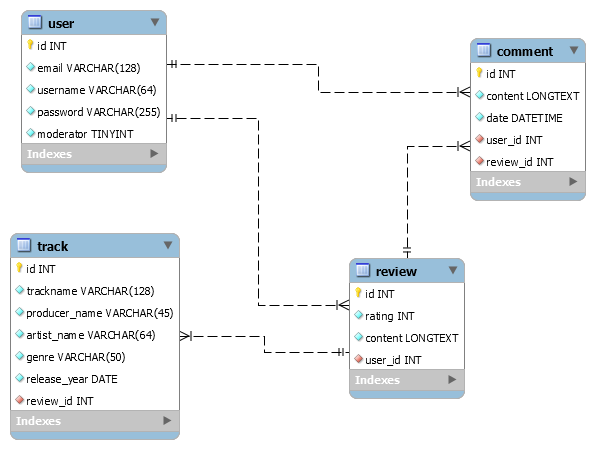
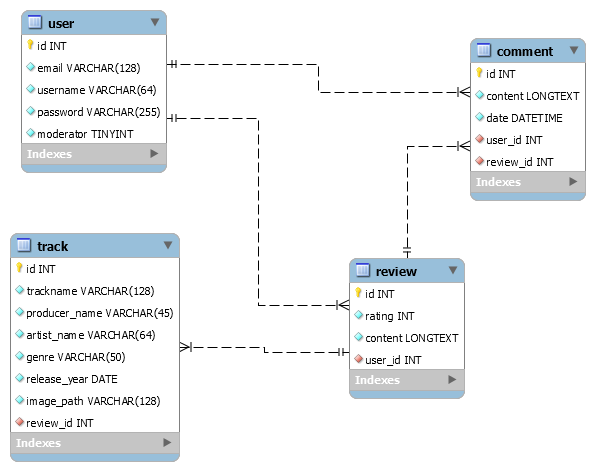
added image_paths to track table, comments now display names

diff --git a/templates/review/index.php b/templates/review/index.php
@@ -33,21 +33,12 @@
                             <?php } ?>
                         </div>
                         <hr>
-                        <img src="images/boston_albumcover.png"
+                        <img src="<?= $track->image_path; ?>"
                              alt="..." width="250px" height="250px">
                         <p class="card-text"><?= $review->content; ?></p>
 
 
                         <p class"Rating"> Lazzaro Rating: <?= $review->rating; ?>/10</p>
-
-                        <button class="btn btn-outline-secondary" type="button">Button</button>
-                        <button class="btn btn-outline-secondary" type="button">Button</button>
-                        <button class="btn btn-outline-secondary" type="button">Button</button>
-                        <button class="btn btn-outline-secondary" type="button">Button</button>
-
-                        <a id="sharebutton" class="btn" href="" role="button">Share</a>
-
-                        <p class="tags">Tags: Rock</p>
 
                     </div>
                 </div>
@@ -55,8 +46,8 @@
                 <div class="col-md-3">
                     <div class="col-md-3">
                         <form action="/default/search" method="post">
-                                <input class="form-control" list="datalistOptions" name="search"
-                                       placeholder="Type to search...">
+                            <input class="form-control" list="datalistOptions" name="search"
+                                   placeholder="Type to search...">
                         </form>
                     </div>
 
@@ -66,7 +57,8 @@
                             EDM
                         </a>
                         <a href="default/genreFilter" class="list-group-item list-group-item-action" name="genreFilter">Pop</a>
-                        <a href="default/genreFilter" class="list-group-item list-group-item-action" name="genreFilter">Hip Hop</a>
+                        <a href="default/genreFilter" class="list-group-item list-group-item-action" name="genreFilter">Hip
+                            Hop</a>
                         <a href="default/genreFilter" class="list-group-item list-group-item-action" name="genreFilter">Rock</a>
 
                         <h5>Jahr</h5>
@@ -80,15 +72,15 @@
 
                 </div>
             </div>
-            <h2>Kommentare (<?= $i=count($review->comments) ?>)</h2>
+            <h2>Kommentare (<?= $i = count($comments['comment']) ?>)</h2>
 
-            <?php foreach ($review->comments as $comment): ?>
+            <?php foreach ($comments['comment'] as $comment): ?>
                 <div class="row">
                     <div class="col-md-8">
-                        <h5><?= $comment->user_id; ?></h5>
-                        <p class="card-text"><small class="text-muted"><?= $comment->date; ?></small>
+                        <h5><?= $comments['user'][$comment['user_id']]['username']; ?></h5>
+                        <p class="card-text"><small class="text-muted"><?= $comment['date']; ?></small>
                         </p>
-                        <p><?= $comment->content; ?></p>
+                        <p><?= $comment['content']; ?></p>
                     </div>
                 </div>
             <?php endforeach; ?>
@@ -100,7 +92,9 @@
                                   id="floatingTextarea" name="comment_content"></textarea>
                         </div>
                         <input type="hidden" id="review_id" name="review_id" value="<?= $review->id; ?>">
-                        <input type="hidden" id="user_id" name="user_id" value="<?= $_SESSION["user"]->id; ?>">
+                        <?php if (isset($_SESSION["user"])) { ?>
+                            <input type="hidden" id="user_id" name="user_id" value="<?= $_SESSION["user"]->id; ?>">
+                        <?php } ?>
                         <button name="doComment" id="commment" type="submit" class="btn">Kommentieren</button>
                     </form>
                 </div>

diff --git a/src/Repository/CommentRepository.php b/src/Repository/CommentRepository.php
@@ -27,10 +27,47 @@ class CommentRepository extends Repository
     }
 
 
-    public function readAllByReviewId($id)
+    public function readAllByReviewId($max = 100, $id)
     {
-        return $this->readAll(100, "review_id=$id");
+        $query = "SELECT comment.*,  user.id as userId , user.username FROM {$this ->tableName} JOIN user ON comment.user_id=user.id WHERE review_id = $id LIMIT 0, $max;";
 
+        $connection = ConnectionHandler::getConnection();
+        $statement = $connection->prepare($query);
+        $statement->execute();
+
+        if ($statement == false){
+            throw new Exception($connection->error);
+        }
+
+        $result = $statement->get_result();
+        if (!$result) {
+            throw new Exception($statement->error);
+        }
+
+        // Datensätze aus dem Resultat holen und in das Array $rows speichern
+        $data = array(
+            'comment' => array(),
+            'user' => array()
+        );
+        while ($row = $result->fetch_object()) {
+            $data ['comment'] [] = array(
+                'id' => $row->id,
+                'content' => $row->content,
+                'date' => $row->date,
+                'user_id' => $row->user_id,
+                'review_id' => $row->review_id,
+
+            );
+            if (!array_key_exists($row->userId, $data['user'])) {
+                $data ['user'] [$row->userId] = array(
+                    'id' => $row->userId,
+                    'username' => $row->username,
+
+                );
+            }
+        }
+
+        return $data;
 
     }
 }

diff --git a/src/Controller/ReviewController.php b/src/Controller/ReviewController.php
@@ -16,7 +16,6 @@ class ReviewController
         $reviewRepository = new ReviewRepository();
         $trackRepository = new TrackRepository();
         $commentRepository = new CommentRepository();
-        $userRepository = new UserRepository();
 
         if(!isset($_GET['id']) || !$_GET['id'] || !is_numeric($_GET['id'])){
             header("Location: /");
@@ -28,7 +27,7 @@ class ReviewController
         $view->title = 'Reviews';
         $view->heading = 'Reviews';
         $view->review = $reviewRepository->readById($id);
-        $view->review->comments = $commentRepository->readAllByReviewId($id);
+        $view->comments = $commentRepository->readAllByReviewId(100,$id);
         $view->track = $trackRepository->readById($view->review->track_id);
         $view->display();
     }

diff --git a/templates/default/index.php b/templates/default/index.php
@@ -39,7 +39,7 @@
                             </div>
                             <a href="<?= $detailLink ?>">
 
-                            <img src="images/boston_albumcover.png"
+                            <img src="<?= $reviews['track'][$review['track_id']]['image_path'];?>"
                                  class="card-img-bottom" alt="...">
                             </a>
                             <div class="card-body">

diff --git a/src/Repository/ReviewRepository.php b/src/Repository/ReviewRepository.php
@@ -48,7 +48,8 @@ class ReviewRepository extends Repository
                     'producer_name' => $row->producer_name,
                     'artist_name' => $row->artist_name,
                     'genre' => $row->genre,
-                    'release' => $row->release_year
+                    'release' => $row->release_year,
+                    'image_path' => $row->image_path
 
                 );
             }
